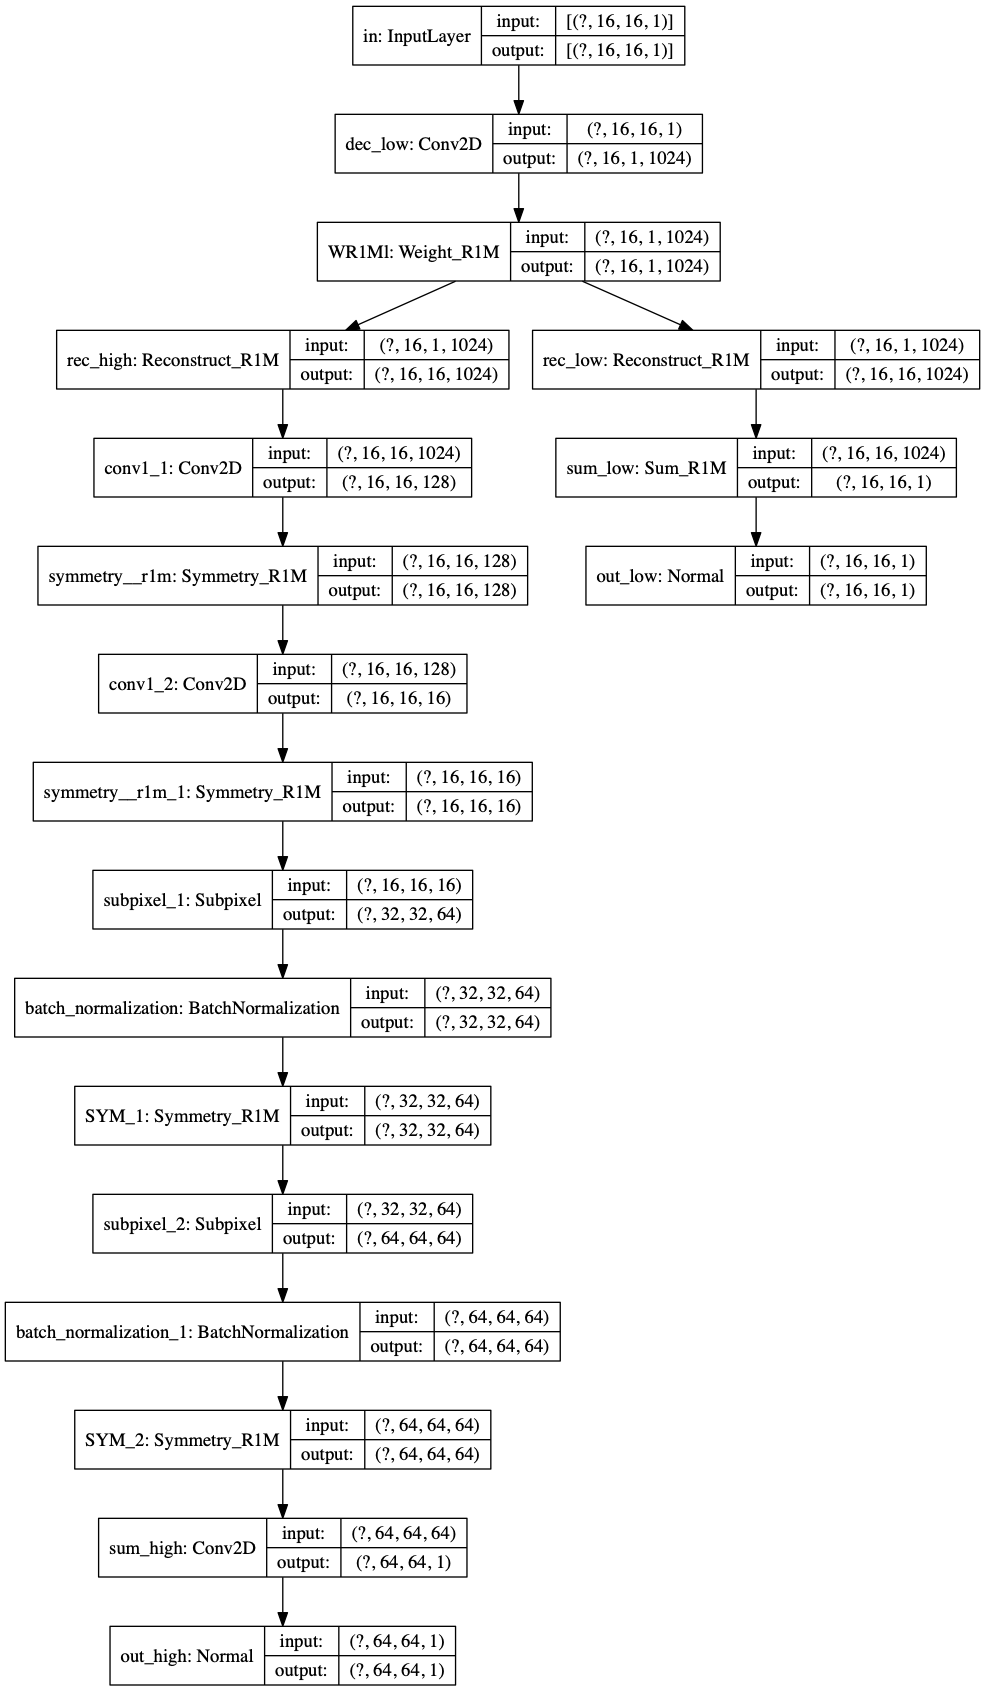
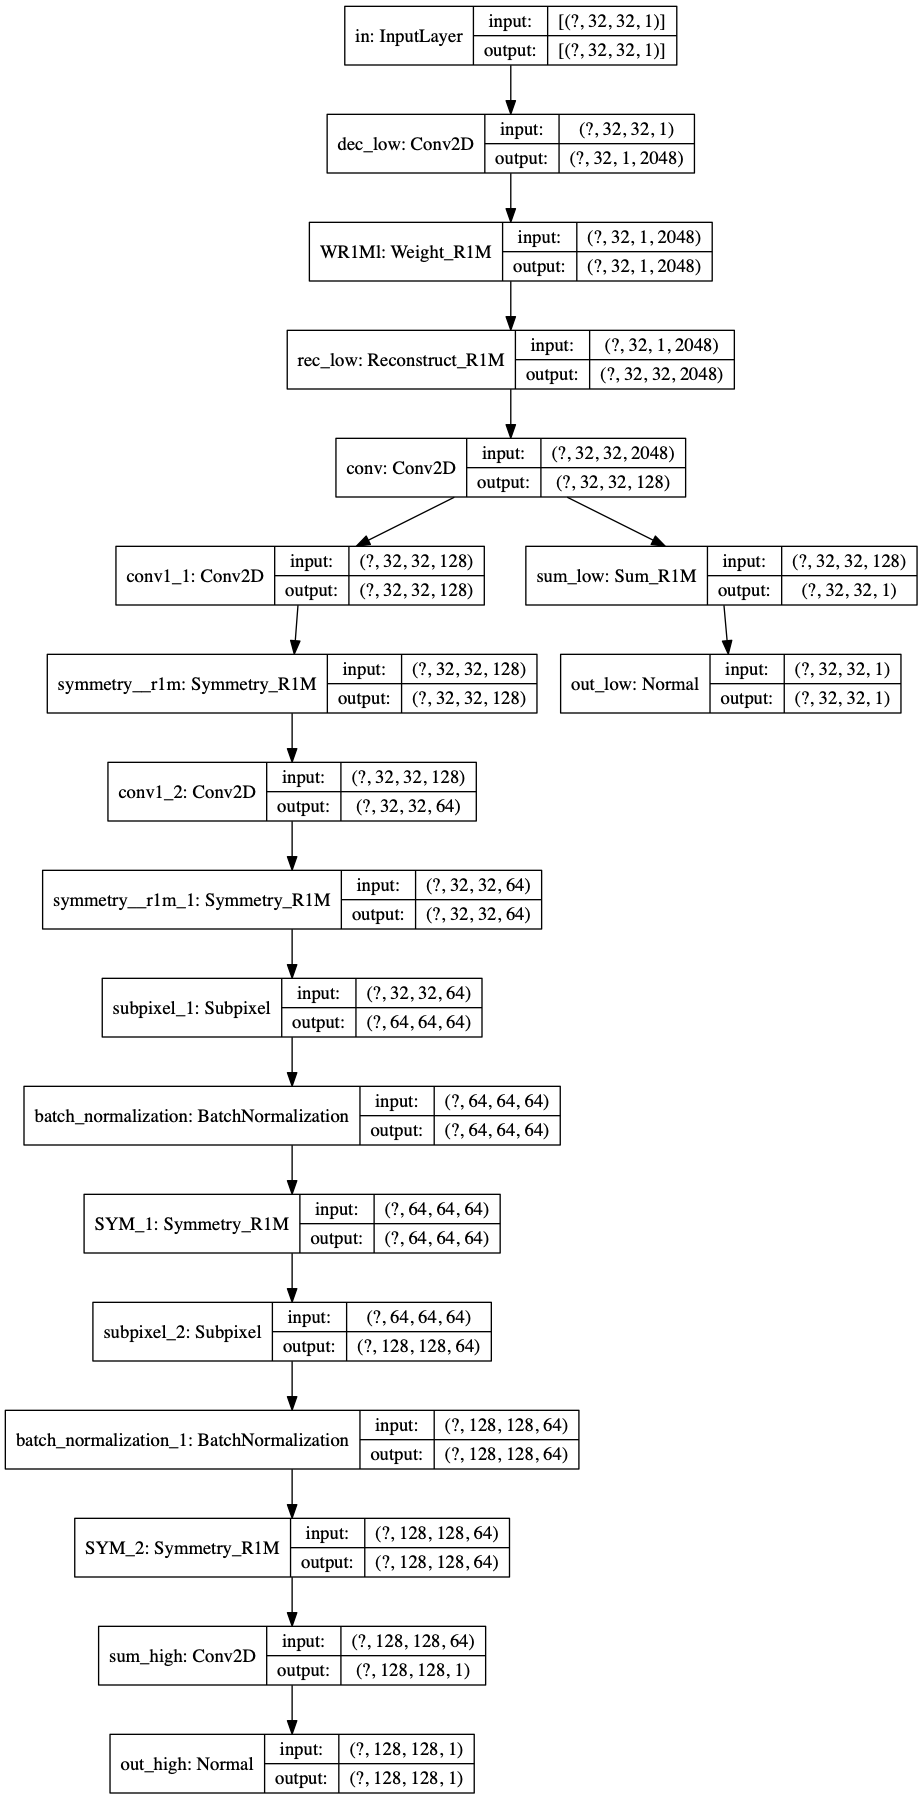
gen

Changed region(s): [[0.0, 0.0, 1.0, 1.0]]

diff --git a/model.py b/model.py
@@ -152,26 +152,28 @@ class Normal(tf.keras.layers.Layer):
 def make_generator_model(len_low_size=16, scale=4):
     In = tf.keras.layers.Input(
         shape=(len_low_size, len_low_size, 1), name='in', dtype=tf.float32)
-    Decl = tf.keras.layers.Conv2D(1024, [1, len_low_size], strides=1, padding='valid', data_format="channels_last", 
+    Decl = tf.keras.layers.Conv2D(2048, [1, len_low_size], strides=1, padding='valid', data_format="channels_last", 
                                     activation='relu', use_bias=False,
                                     kernel_constraint=tf.keras.constraints.NonNeg(), 
                                     kernel_initializer=tf.keras.initializers.RandomNormal(mean=0.01, stddev=0.1), 
                                     name='dec_low')(In)
-
     WeiR1Ml = Weight_R1M(name='WR1Ml')(Decl)
-    Recl = Reconstruct_R1M(1024, name='rec_low')(WeiR1Ml)
-    Suml = Sum_R1M(name='sum_low')(Recl)
+    Rec = Reconstruct_R1M(2048, name='rec_low')(WeiR1Ml)
+    conv = tf.keras.layers.Conv2D(128, [3, 3], strides=1, padding='same', data_format="channels_last", 
+                                    activation='relu', use_bias=False,
+                                    name='conv')(Rec)
+    
+    Suml = Sum_R1M(name='sum_low')(conv)
     low_out = Normal(len_low_size, name='out_low')(Suml)
 
     '''up_o = tf.keras.layers.UpSampling2D(size=(4, 4), data_format='channels_last', name='up_in')(In)
     m_F = tf.constant(1/16.0, shape=(1, 1, 1, 1))
     up_o = tf.keras.layers.Multiply(name='scale_value_in')([up_o, m_F])'''
 
-    Rech = Reconstruct_R1M(1024, name='rec_high')(WeiR1Ml)
 
     conv1 = tf.keras.layers.Conv2D(128, [3, 3], strides=1, padding='same', data_format="channels_last", 
                                     activation='relu', use_bias=False,
-                                    name='conv1_1')(Rech)
+                                    name='conv1_1')(conv)
     sym = Symmetry_R1M()(conv1)
     conv1 = tf.keras.layers.Conv2D(64, [3, 3], strides=1, padding='same', data_format="channels_last", 
                                     activation='relu', use_bias=False,
@@ -282,6 +284,7 @@ def train_step_generator(Gen, Dis, imgl, imgr, loss_filter, loss_weights, opts, 
         gen_low_v += Gen.get_layer('dec_low').trainable_variables
         gen_low_v += Gen.get_layer('WR1Ml').trainable_variables
         gen_low_v += Gen.get_layer('rec_low').trainable_variables
+        gen_low_v += Gen.get_layer('conv').trainable_variables
         gen_low_v += Gen.get_layer('out_low').trainable_variables
 
         gen_loss_low_ssim = generator_ssim_loss(fake_hic_l, imgl_filter)
@@ -294,7 +297,6 @@ def train_step_generator(Gen, Dis, imgl, imgr, loss_filter, loss_weights, opts, 
 
         disc_generated_output = Dis(fake_hic_h, training=False)
         gen_high_v = []
-        gen_high_v += Gen.get_layer('rec_high').trainable_variables
         gen_high_v += Gen.get_layer('conv1_1').trainable_variables
         gen_high_v += Gen.get_layer('conv1_2').trainable_variables
         gen_high_v += Gen.get_layer('subpixel_1').trainable_variables
@@ -515,8 +517,8 @@ def plot_to_image(figure):
     return image
 
 if __name__ == '__main__':
-    Gen = make_generator_model(len_low_size=16, scale=4)
-    Dis = make_discriminator_model(len_low_size=16, scale=4)
+    Gen = make_generator_model(len_low_size=32, scale=4)
+    Dis = make_discriminator_model(len_low_size=32, scale=4)
     print(Gen.summary())
     tf.keras.utils.plot_model(Gen, to_file='G.png', show_shapes=True)
     print(Dis.summary())
